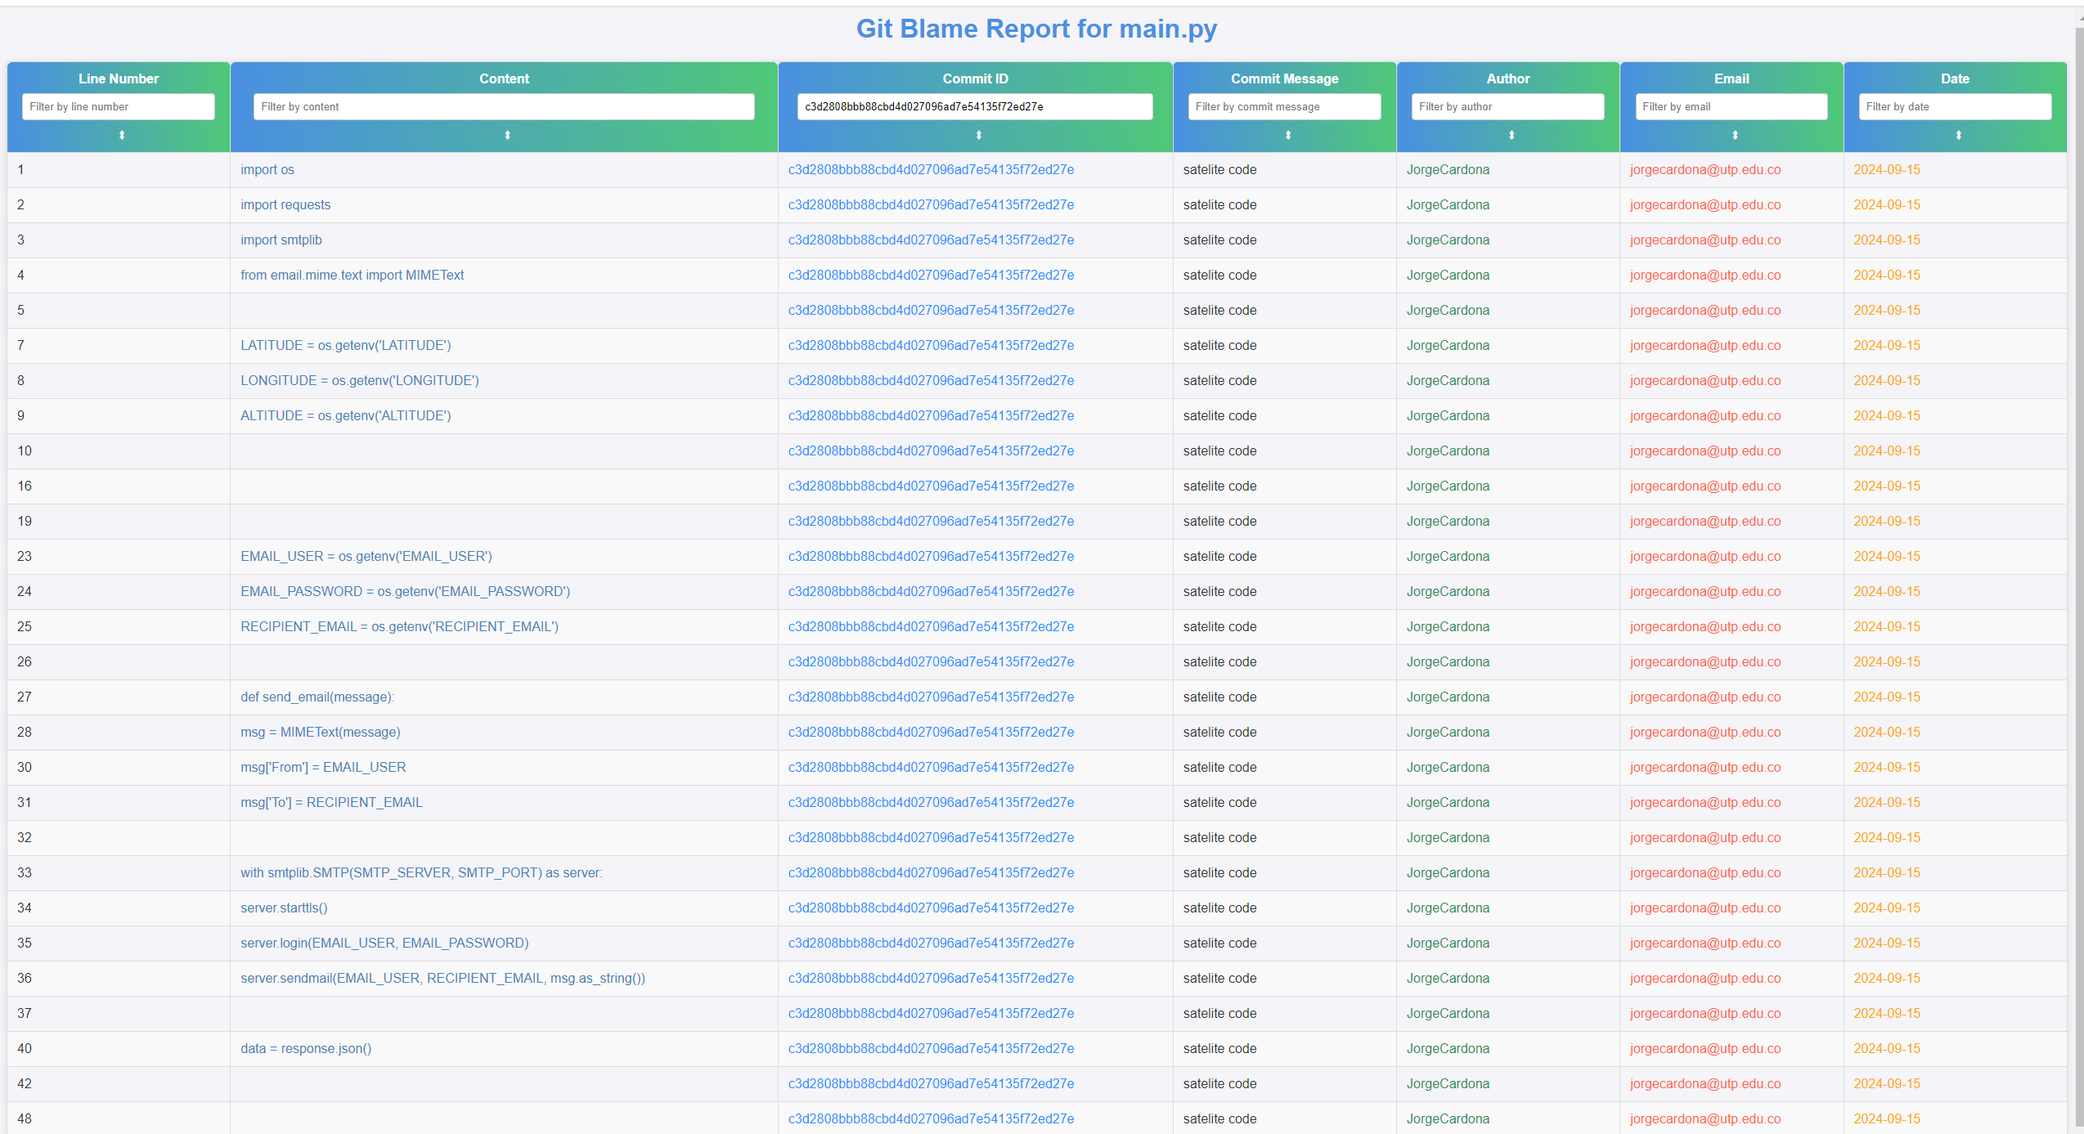
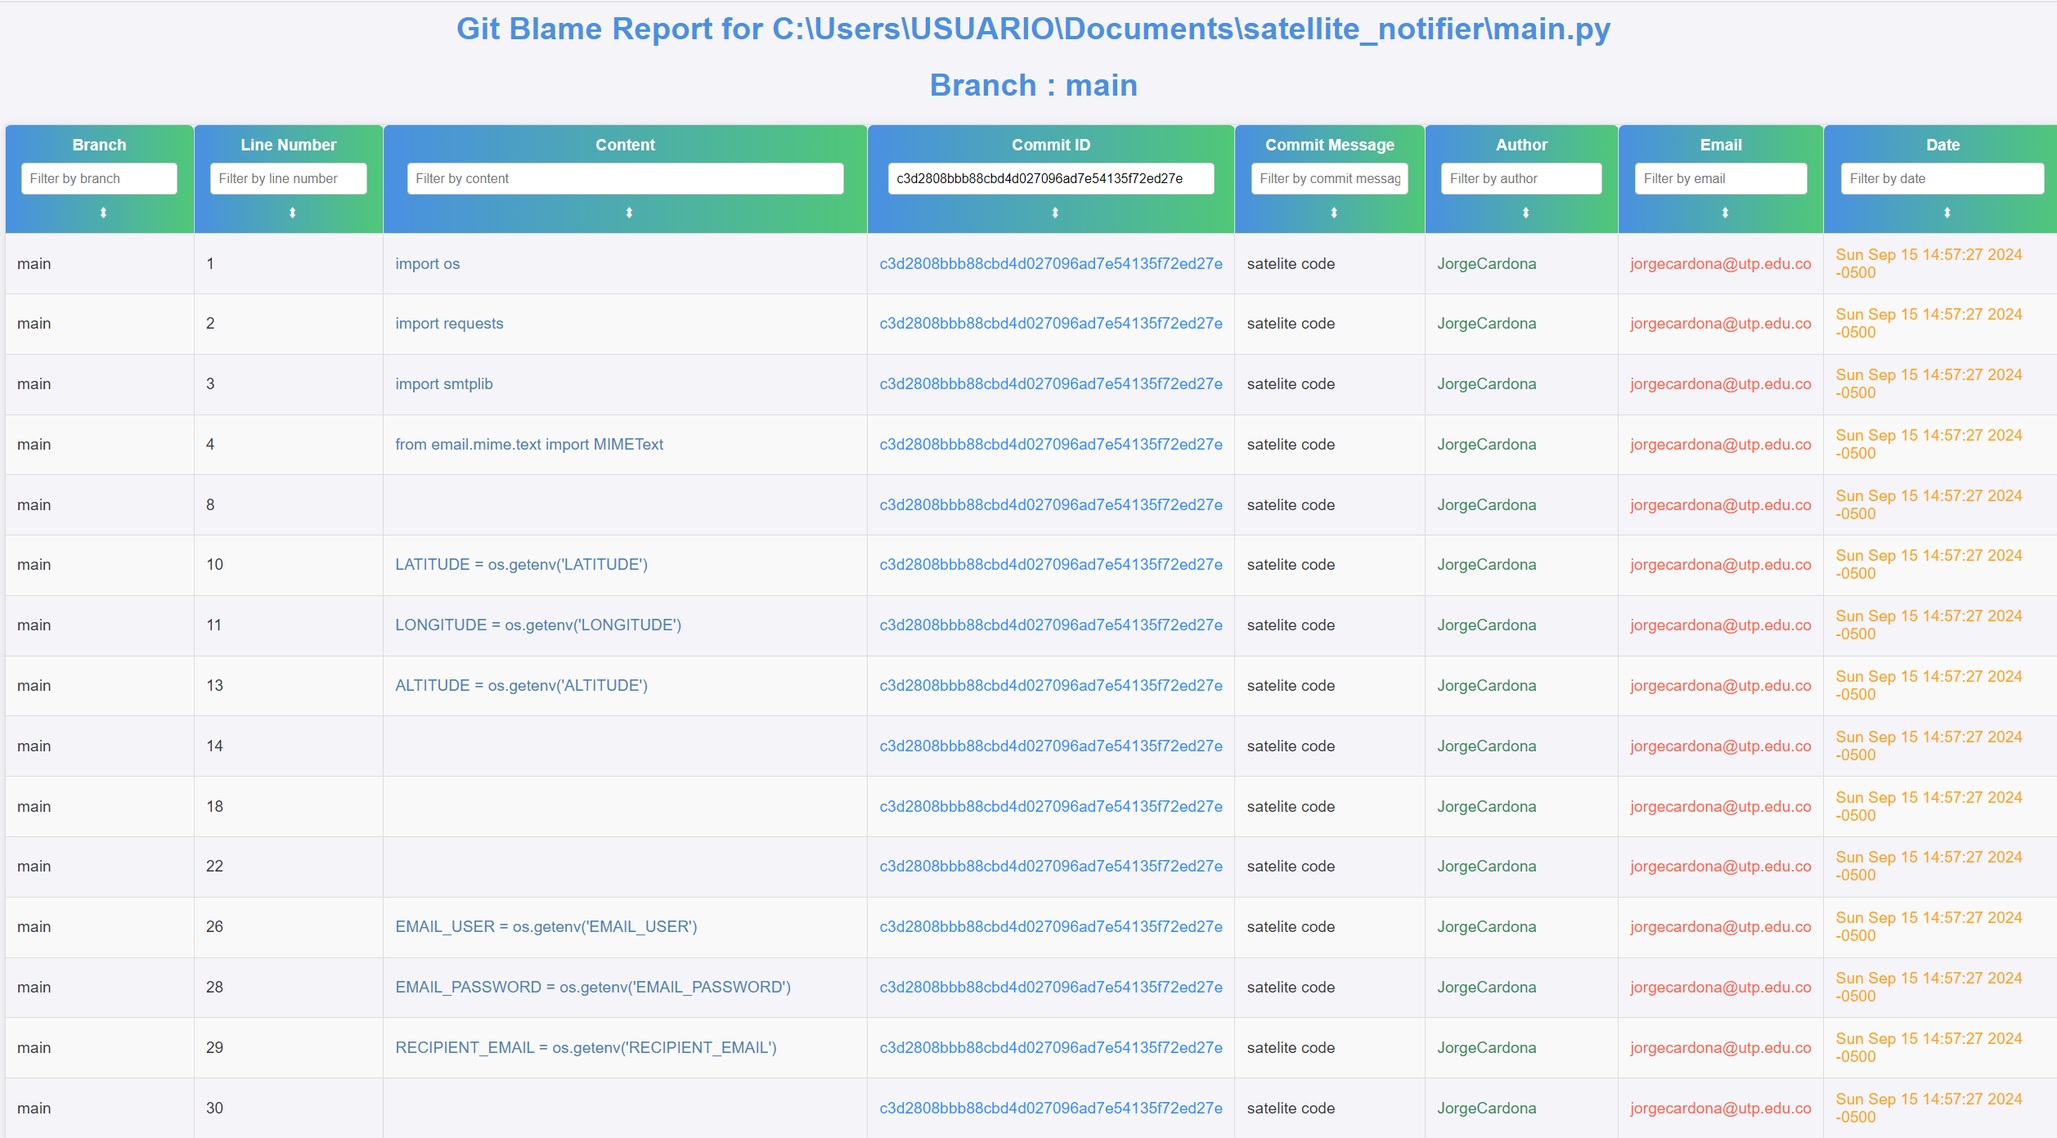
added branch name to report

diff --git a/src/git_history_analyzer.py b/src/git_history_analyzer.py
@@ -165,16 +165,24 @@ class GitCommitsReportGenerator:
 
     def git_blame_with_commit_details(self, blame_file_to_read, blame_print_details=False):
         """
-        Executes 'git blame' on the specified file and retrieves commit details for each line.
+        Executes 'git blame' on the specified file and retrieves commit details for each line,
+        including the current branch name. The line numbers reflect the current version of the file.
         
         Parameters:
         blame_file_to_read (str): The path to the file to analyze with 'git blame'.
         blame_print_details (bool): If True, prints the commit details for each line. Default is False.
         
         Returns:
-        list: A list of dictionaries containing details for each line in the file.
+        list: A list of dictionaries containing details for each line in the file, 
+            with the current line numbers in the latest version.
         """
         details_list = []  # List to store details for each line
+
+        # Get the current branch name
+        branch_name = subprocess.check_output(
+            ['git', 'rev-parse', '--abbrev-ref', 'HEAD'],
+            text=True
+        ).strip()
 
         # Execute git blame and retrieve all commit ids at once
         blame_output = subprocess.check_output(
@@ -182,7 +190,12 @@ class GitCommitsReportGenerator:
             text=True
         ).splitlines()
 
+        # Read the current version of the file
+        with open(blame_file_to_read, 'r', encoding='utf-8') as f:
+            current_file_lines = f.readlines()
+
         current_commit = {}
+        blame_line_index = 0
 
         for line in blame_output:
             if line.startswith('author '):
@@ -199,22 +212,37 @@ class GitCommitsReportGenerator:
             elif re.match(r'^[0-9a-f]{40} ', line):
                 commit_id, line_number = line.split()[:2]
                 current_commit['commit_id'] = commit_id
-                current_commit['line_number'] = line_number
+                current_commit['original_line_number'] = int(line_number)
             elif line.startswith('\t'):
-                # This is the content line
+                # This is the content line from git blame output
                 current_commit['content_line'] = line[1:].strip()
-                details_list.append(current_commit.copy())
 
-                if blame_print_details:
-                    print(
-                        f"\033[1;34mLine Number:\033[0m {current_commit['line_number']} - "
-                        f"\033[1;32mContent:\033[0m {current_commit['content_line']}  - "
-                        f"\033[0;33mCommit Message:\033[0m {current_commit['commit_message']} - "
-                        f"\033[1;36mCommit Id:\033[0m {current_commit['commit_id']} - "
-                        f"\033[1;35mAuthor:\033[0m {current_commit['commit_author']} - "
-                        f"\033[1;31mEmail:\033[0m {current_commit['commit_email']} - "
-                        f"\033[1;38;5;214mDate:\033[0m {current_commit['commit_date']}"
-                    )
+                # Match this with the current file's line content and update the current line number
+                if blame_line_index < len(current_file_lines):
+                    current_commit['current_line_number'] = blame_line_index + 1
+                    current_commit['current_content'] = current_file_lines[blame_line_index].strip()
+
+                    # Ensure the content from git blame matches the current file content (if desired)
+                    # if current_commit['content_line'] == current_commit['current_content']:
+                    current_commit['branch_name'] = branch_name
+
+                    # Asegurar que 'line_number' esté presente para evitar el KeyError
+                    current_commit['line_number'] = current_commit.get('current_line_number', None)
+
+                    details_list.append(current_commit.copy())
+
+                    if blame_print_details:
+                        print(
+                            f"\033[1;36mBranch:\033[0m {current_commit['branch_name']} - "
+                            f"\033[1;34mCurrent Line Number:\033[0m {current_commit['current_line_number']} - "
+                            f"\033[1;32mCurrent Content:\033[0m {current_commit['current_content']}  - "
+                            f"\033[0;33mCommit Message:\033[0m {current_commit['commit_message']} - "
+                            f"\033[1;36mCommit Id:\033[0m {current_commit['commit_id']} - "
+                            f"\033[1;35mAuthor:\033[0m {current_commit['commit_author']} - "
+                            f"\033[1;31mEmail:\033[0m {current_commit['commit_email']} - "
+                            f"\033[1;38;5;214mDate:\033[0m {current_commit['commit_date']}"
+                        )
+                    blame_line_index += 1
 
         return details_list  # Return the list of dictionaries
 
@@ -223,7 +251,7 @@ class GitCommitsReportGenerator:
         Generates an HTML report of Git blame details for a specified file.
 
         This function creates a styled HTML report containing a table with Git blame information, 
-        including line numbers, content, commit IDs, commit messages, authors, emails, and commit dates.
+        including line numbers, content, commit IDs, commit messages, authors, emails, branch name, and commit dates.
         The report allows for filtering and sorting of the displayed data.
 
         Parameters:
@@ -236,6 +264,7 @@ class GitCommitsReportGenerator:
             - commit_author (str): The author of the commit.
             - commit_email (str): The email of the author.
             - commit_date (str): The date of the commit.
+            - branch_name (str): The name of the branch.
         blame_file_to_read (str): The name of the file for which the Git blame report is generated.
         blame_directory_to_save_report (str, optional): The path to the directory where the report will be saved. Defaults to '/report/blame'.
         blame_report_name_to_save (str, optional): The base name for the report file. Defaults to 'blame_report'.
@@ -243,7 +272,13 @@ class GitCommitsReportGenerator:
         Returns:
         None: The function saves the generated HTML report to the specified directory and prints a confirmation message.
         """
-        
+
+        # Sort the report details by line number in ascending order
+        blame_report_details.sort(key=lambda x: int(x['line_number']))
+
+        # Get the current branch name
+        branch_name = subprocess.check_output(['git', 'rev-parse', '--abbrev-ref', 'HEAD'], text=True).strip()
+
         report_name, report_directory = self.generate_report_name_and_report_directory(blame_directory_to_save_report, blame_report_name_to_save, blame_file_to_read)
 
         # HTML table header with filters, sorting, and styling
@@ -381,15 +416,17 @@ class GitCommitsReportGenerator:
         </head>
         <body>
             <h1>Git Blame Report for {blame_file_to_read}</h1>
+            <h1>Branch : {branch_name}</h1>
             <table id="blameTable">
                 <tr>
-                    <th onclick="sortTable(0)">Line Number<br><input type="text" onkeyup="filterTable(0)" placeholder="Filter by line number"></th>
-                    <th onclick="sortTable(1)">Content<br><input type="text" onkeyup="filterTable(1)" placeholder="Filter by content"></th>
-                    <th onclick="sortTable(2)">Commit ID<br><input type="text" onkeyup="filterTable(2)" placeholder="Filter by commit ID"></th>
-                    <th onclick="sortTable(3)">Commit Message<br><input type="text" onkeyup="filterTable(3)" placeholder="Filter by commit message"></th>
-                    <th onclick="sortTable(4)">Author<br><input type="text" onkeyup="filterTable(4)" placeholder="Filter by author"></th>
-                    <th onclick="sortTable(5)">Email<br><input type="text" onkeyup="filterTable(5)" placeholder="Filter by email"></th>
-                    <th onclick="sortTable(6)">Date<br><input type="text" onkeyup="filterTable(6)" placeholder="Filter by date"></th>
+                    <th onclick="sortTable(0)">Branch<br><input type="text" onkeyup="filterTable(0)" placeholder="Filter by branch"></th>
+                    <th onclick="sortTable(1)">Line Number<br><input type="text" onkeyup="filterTable(1)" placeholder="Filter by line number"></th>
+                    <th onclick="sortTable(2)">Content<br><input type="text" onkeyup="filterTable(2)" placeholder="Filter by content"></th>
+                    <th onclick="sortTable(3)">Commit ID<br><input type="text" onkeyup="filterTable(3)" placeholder="Filter by commit ID"></th>
+                    <th onclick="sortTable(4)">Commit Message<br><input type="text" onkeyup="filterTable(4)" placeholder="Filter by commit message"></th>
+                    <th onclick="sortTable(5)">Author<br><input type="text" onkeyup="filterTable(5)" placeholder="Filter by author"></th>
+                    <th onclick="sortTable(6)">Email<br><input type="text" onkeyup="filterTable(6)" placeholder="Filter by email"></th>
+                    <th onclick="sortTable(7)">Date<br><input type="text" onkeyup="filterTable(7)" placeholder="Filter by date"></th>
                 </tr>
         """
 
@@ -397,6 +434,7 @@ class GitCommitsReportGenerator:
         for detail in blame_report_details:
             html_content += f"""
                 <tr>
+                    <td>{branch_name}</td>
                     <td>{detail['line_number']}</td>
                     <td class="content">{detail['content_line']}</td>
                     <td class="commit-id">{detail['commit_id']}</td>
@@ -406,19 +444,19 @@ class GitCommitsReportGenerator:
                     <td class="date">{detail['commit_date']}</td>
                 </tr>
             """
-        
+
         # Close the HTML
         html_content += """
             </table>
         </body>
         </html>
         """
-        
+
         # Save the HTML file with ISO-8859-1 encoding
         with open(report_directory, 'w', encoding='utf-16') as file:
             file.write(html_content)
 
-        print(f"Styled GIT BLAME HTML report with sorting and filters generated: {report_name}")
+        print(f"Styled GIT BLAME HTML report with sorting and filters generated: {report_directory}")
 
     def generate_html_report_history(self, history_report_details, history_file_to_read, history_directory_to_save_report='/report/log_history', history_report_name_to_save='history_report'):
         """
@@ -432,6 +470,9 @@ class GitCommitsReportGenerator:
 
         report_name, report_directory = self.generate_report_name_and_report_directory(history_directory_to_save_report, history_report_name_to_save, history_file_to_read)
         # HTML table header with filters, sorting, and styling
+        # Get the current branch name
+        branch_name = subprocess.check_output(['git', 'rev-parse', '--abbrev-ref', 'HEAD'], text=True).strip()
+        
         html_content = f"""
         <html>
         <head>
@@ -470,6 +511,16 @@ class GitCommitsReportGenerator:
                 th:hover {{
                     background: linear-gradient(90deg, #50c878, #4a90e2);
                 }}
+                th::after {{
+                    content: '\\25B2'; /* Arrow symbol for sorting */
+                    font-size: 12px;
+                    margin-left: 8px;
+                    position: absolute;
+                    right: 10px;
+                }}
+                th.sort-desc::after {{
+                    content: '\\25BC'; /* Down arrow when sorted descending */
+                }}
                 tr:nth-child(even) {{
                     background-color: #f9f9f9;
                 }}
@@ -483,6 +534,7 @@ class GitCommitsReportGenerator:
                 .message {{color: #4682b4;}}
                 .added {{color: #388e3c;}}  /* Darker green for additions */
                 .removed {{color: #ff6347;}} /* Red for deletions */
+                .branch {{color: #8b008b;}} /* Color for branch */
                 input {{
                     width: 95%;
                     padding: 8px;
@@ -562,14 +614,16 @@ class GitCommitsReportGenerator:
         </head>
         <body>
             <h1>Git History Report for {history_file_to_read}</h1>
+            <h1>Branch : {branch_name}</h1>
             <table id="historyTable">
                 <tr>
-                    <th onclick="sortTable(0)">Commit ID<br><input type="text" onkeyup="filterTable(0)" placeholder="Filter by commit ID"></th>
-                    <th onclick="sortTable(1)">Author<br><input type="text" onkeyup="filterTable(1)" placeholder="Filter by author"></th>
-                    <th onclick="sortTable(2)">Email<br><input type="text" onkeyup="filterTable(2)" placeholder="Filter by email"></th>
-                    <th onclick="sortTable(3)">Date<br><input type="text" onkeyup="filterTable(3)" placeholder="Filter by date"></th>
-                    <th onclick="sortTable(4)">Commit Message<br><input type="text" onkeyup="filterTable(4)" placeholder="Filter by commit message"></th>
-                    <th onclick="sortTable(5)">Changes<br><input type="text" onkeyup="filterTable(5)" placeholder="Filter by changes"></th>
+                    <th onclick="sortTable(0)">Branch<br><input type="text" onkeyup="filterTable(0)" placeholder="Filter by branch"></th>
+                    <th onclick="sortTable(1)">Commit ID<br><input type="text" onkeyup="filterTable(1)" placeholder="Filter by commit ID"></th>
+                    <th onclick="sortTable(2)">Author<br><input type="text" onkeyup="filterTable(2)" placeholder="Filter by author"></th>
+                    <th onclick="sortTable(3)">Email<br><input type="text" onkeyup="filterTable(3)" placeholder="Filter by email"></th>
+                    <th onclick="sortTable(4)">Date<br><input type="text" onkeyup="filterTable(4)" placeholder="Filter by date"></th>
+                    <th onclick="sortTable(5)">Commit Message<br><input type="text" onkeyup="filterTable(5)" placeholder="Filter by commit message"></th>
+                    <th onclick="sortTable(6)">Changes<br><input type="text" onkeyup="filterTable(6)" placeholder="Filter by changes"></th>
                 </tr>
         """
 
@@ -582,6 +636,7 @@ class GitCommitsReportGenerator:
 
             html_content += f"""
                 <tr>
+                    <td class="branch">{commit.get('branch', 'Unknown')}</td>
                     <td class="commit-id">{commit['commit_id']}</td>
                     <td class="author">{commit.get('commit_author', 'Unknown')}</td>
                     <td class="email">{commit.get('commit_email', 'No email')}</td>
@@ -604,9 +659,10 @@ class GitCommitsReportGenerator:
 
         print(f"GIT HISTORY HTML report generated: {history_report_name_to_save}")
 
+
     def git_history_with_line_changes(self, history_file_to_read, history_print_details=False):
         """
-        Retrieves the complete commit history for a specified file along with the changes made in each commit.
+        Retrieves the complete commit history for a specified file along with the changes made in each commit, including branch names and real line numbers.
 
         Parameters:
         history_file_to_read (str): The path to the file to analyze.
@@ -616,6 +672,16 @@ class GitCommitsReportGenerator:
         list: A list of dictionaries containing details for each commit along with the changes.
         """
         history_list = []  # List to store details of each commit with line changes
+
+        # Get the current branch
+        branch_process = subprocess.Popen(
+            ['git', 'rev-parse', '--abbrev-ref', 'HEAD'],
+            stdout=subprocess.PIPE,
+            stderr=subprocess.PIPE,
+            text=True
+        )
+        current_branch, _ = branch_process.communicate()
+        current_branch = current_branch.strip()  # Get branch name
 
         # Execute git log with patch to show changes
         process = subprocess.Popen(
@@ -629,6 +695,7 @@ class GitCommitsReportGenerator:
         current_commit = None
         commit_details = {}
         current_line_number = 0
+        current_hunk_new_start = None
 
         for line in process.stdout:
             line = line.rstrip()  # Remove trailing newline characters
@@ -640,8 +707,8 @@ class GitCommitsReportGenerator:
 
                 # Start a new commit details dictionary
                 current_commit = line.split()[1]  # Extract commit ID
-                commit_details = {'commit_id': current_commit, 'changes': []}
-            
+                commit_details = {'commit_id': current_commit, 'branch': current_branch, 'changes': []}
+
             elif line.startswith('Author:'):
                 commit_details['commit_author'] = line[8:].strip()  # Extract author
                 commit_details['commit_email'] = line.split('<')[1].strip('>')  # Extract email
@@ -653,19 +720,23 @@ class GitCommitsReportGenerator:
                 if 'commit_message' not in commit_details:  # Ensure to store commit message once
                     commit_details['commit_message'] = line.strip()  # Extract commit message
 
+            elif line.startswith('@@'):
+                # Extract line number from the hunk header (example: @@ -12,7 +12,7 @@)
+                hunk_header = line.split(' ')
+                new_hunk_info = hunk_header[2]  # This is the `+` section, representing the new file
+                current_hunk_new_start = int(new_hunk_info.split(',')[0][1:])  # Get the starting line number of the new hunk
+
             elif line.startswith('+') and not line.startswith('+++'):
                 # Lines starting with '+' are additions
                 change_line = line[1:].strip()  # Remove the '+' sign
-                commit_details['changes'].append({'type': 'added', 'line': change_line, 'line_number': current_line_number})
+                commit_details['changes'].append({'type': 'added', 'line': change_line, 'line_number': current_hunk_new_start})
+                current_hunk_new_start += 1  # Increment the line number for the next addition
 
             elif line.startswith('-') and not line.startswith('---'):
-                # Lines starting with '-' are deletions
+                # Lines starting with '-' are deletions (we keep track of the old line numbers similarly if needed)
                 change_line = line[1:].strip()  # Remove the '-' sign
-                commit_details['changes'].append({'type': 'removed', 'line': change_line, 'line_number': current_line_number})
-
-            # Increment line number for each line processed
-            if not line.startswith('commit '):
-                current_line_number += 1
+                commit_details['changes'].append({'type': 'removed', 'line': change_line, 'line_number': current_hunk_new_start})
+                current_hunk_new_start += 1  # Increment the line number for the next removal
 
         # Add the last commit details if any
         if current_commit:
@@ -673,6 +744,7 @@ class GitCommitsReportGenerator:
 
         if history_print_details:
             for commit in history_list:
+                print(f"\033[1;35mBranch:\033[0m {commit['branch']}")
                 print(f"\033[1;36mCommit Id:\033[0m {commit['commit_id']}")
                 print(f"\033[1;35mAuthor:\033[0m {commit.get('commit_author', 'Unknown')}")
                 print(f"\033[1;31mEmail:\033[0m {commit.get('commit_email', 'No email')}")

diff --git a/README.md b/README.md
@@ -32,6 +32,7 @@ report_type=['blame', 'log_history'], print_details=False
 ## Output
 
 The function returns a list of dictionaries, where each dictionary contains:
+- `Branch`: The branch currently under analysis.
 - `commit_id`: The ID of the commit.
 - `commit_author`: The author of the commit.
 - `commit_email`: The author's email address.
